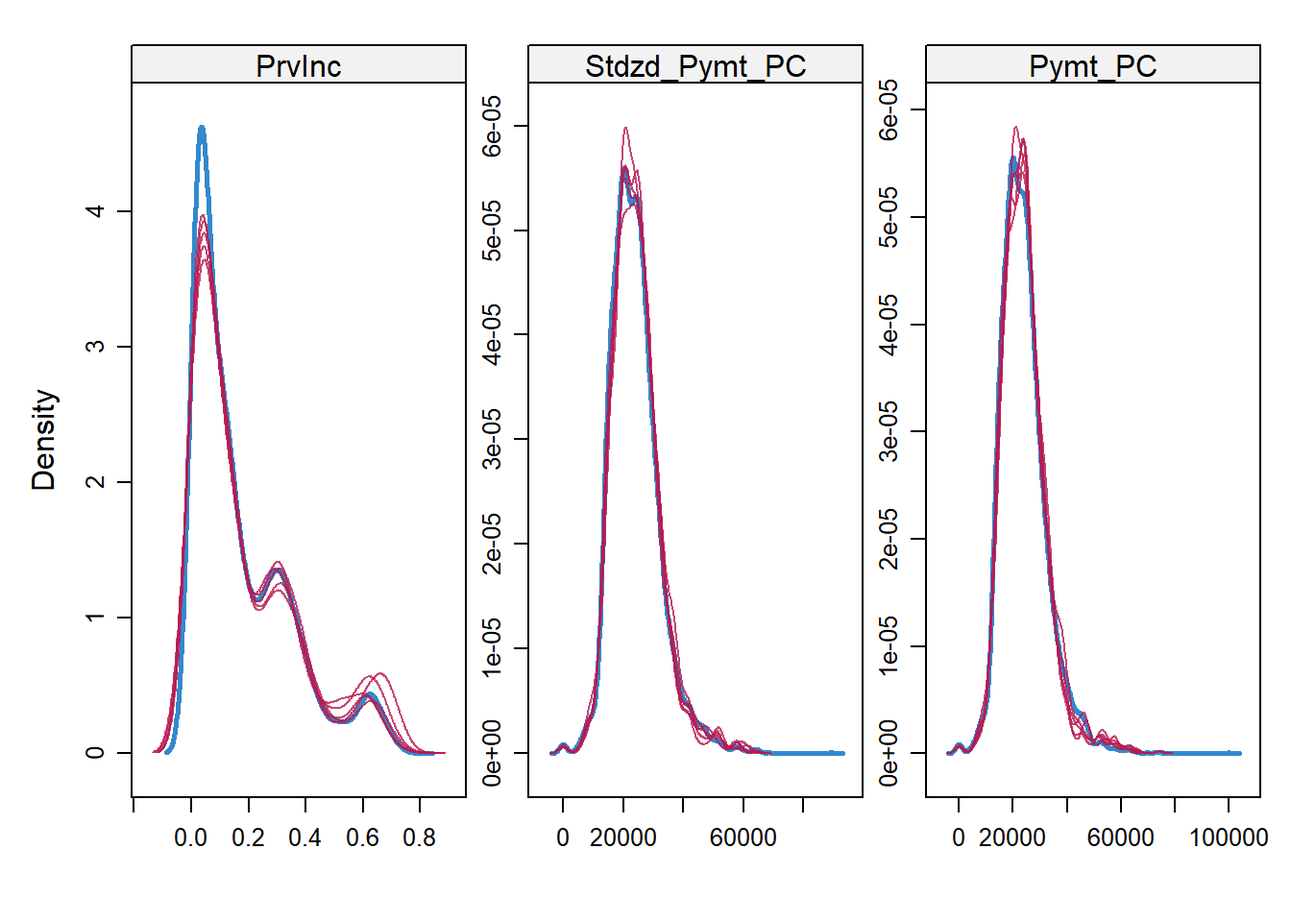
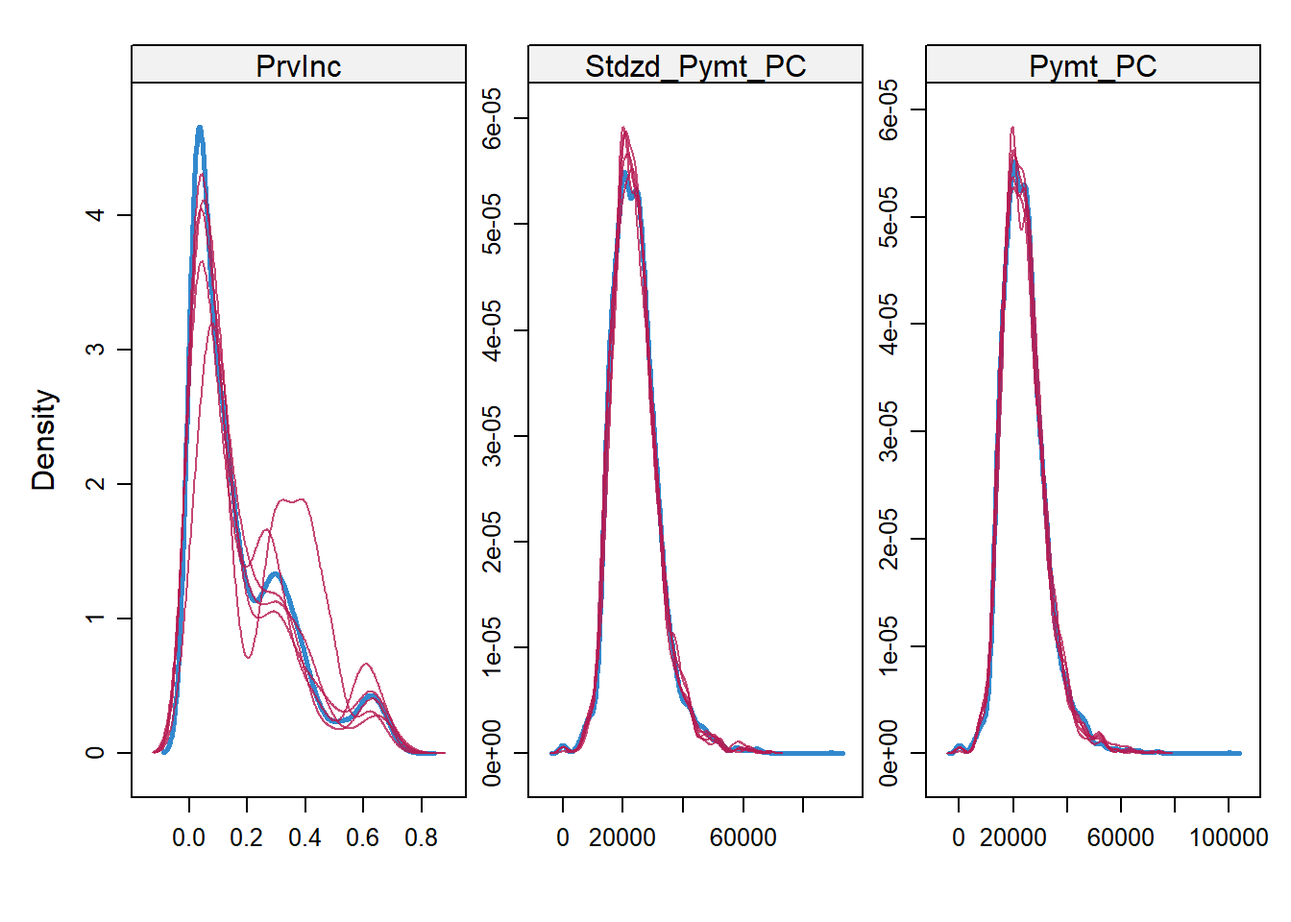
Edits(7/24)

diff --git a/index.html b/index.html
@@ -131,39 +131,40 @@ div.csl-indent {
 
 <section id="introduction" class="level2">
 <h2 class="anchored" data-anchor-id="introduction">Introduction</h2>
-<p>Missing data is ubiquitous in any dataset. Although alone it is not a problem, missing data becomes a problem when its analysis shows bias or lacks power. While the occurrence of missing data is immense, its discussion in many peer-reviewed journal articles is not so. Even more infrequent were the discussions on how best to accurately institute observations in the missing dataset. Some researchers have observed, <span class="citation" data-cites="ljlmw14">(<a href="#ref-ljlmw14" role="doc-biblioref">Little et al. 2014</a>)</span> there are areas of loss when it comes to missing data – bias, power, and recoverability.</p>
-<p>Missing data in experiments and analyses can lead to inaccurately distributed data and calculations, skewed visuals (such as histograms, line graphs, etc.), and allow for inaccurate conclusions to be rendered. Determining which method is best is another challenge entirely. The problem of missing data in research applications is vast. There is a significant need to best correct the missing data points in order to provide the most accurate and complete dataset from which to analyze the research and draw accurate conclusions. Researchers suggest using the most common form of missing data analysis, Multiple Imputation (MI) in addition to other novel suggested approaches.</p>
+<p>Missing data is ubiquitous in any dataset. Although alone it is not a problem, missing data becomes a problem when its analysis shows bias or lacks power. While the occurrence of missing data is immense, its discussion in many peer-reviewed journal articles is not so. Even more infrequent are the discussions on how best to accurately institute observations in the missing dataset. Some researchers <span class="citation" data-cites="ljlmw14">(<a href="#ref-ljlmw14" role="doc-biblioref">Little et al. 2014</a>)</span> have observed that, there are areas of loss when it comes to missing data – bias, power, and recoverability.</p>
+<p>Missing data in experiments and analyses can lead to inaccurately distributed data and calculations, skewed visuals (such as histograms, line graphs, etc.), and allow for inaccurate conclusions to be rendered. Determining which method is best is another challenge entirely. The problem of missing data in research applications is vast. There is a significant need to best correct the missing data points in order to provide the most accurate and complete dataset from which to analyze the research and draw accurate conclusions. Researchers suggest using the most common form of missing data analysis, Multiple Imputation (MI), in addition to other novel suggested approaches.</p>
 <p>MI resolves the issue of “too small or too big” standard errors gathered from using traditional methods of addressing missing data. A large standard error occurs when statistical results are acquired with a lack of precision, whereas a small standard error occurs when statistical results are acquired with an overestimation of precision.</p>
-<p>As others<span class="citation" data-cites="mhth19">(<a href="#ref-mhth19" role="doc-biblioref">Madley-Dowd et al. 2019</a>)</span> have noted, providing sufficient auxiliary variables can alleviate power degradation from missing data. They determined that standard error increased when the fraction of missing information (FMI) increased, while FMI decreased when auxiliary variables increased.</p>
-<p>There has also been discussion of the concept of using machine learning to address missing data <span class="citation" data-cites="emmsmt21">(<a href="#ref-emmsmt21" role="doc-biblioref">Emmanuel et al. 2021</a>)</span>. Using machine learning, additional imputation methods to alleviate missing data include K Nearest Neighbor (KNN) and Support Vector Machine(SVM). KNN measures distances for each missing value and pulls the replacement value from the smallest distances. KNN still performs well even with large amounts of missing data, and in iterative versions, it has been shown to converge faster than many other methods, yet with a high computation time. SVM is similar, but rather than weighting each distance as with KMM, it aims to create a hyperplane that has the largest distance to data points <span class="citation" data-cites="emmsmt21">(<a href="#ref-emmsmt21" role="doc-biblioref">2021</a>)</span>. It should be noted that the KNN method outperformed the experiment’s implementation of a random forest decision tree for small missingness ratios.</p>
+<p>As Madley-Dowd et al.<span class="citation" data-cites="mhth19">(<a href="#ref-mhth19" role="doc-biblioref">2019</a>)</span> have noted, providing sufficient auxiliary variables can alleviate power degradation from missing data. They determined that standard error increased when the fraction of missing information (FMI) increased, while FMI decreased when auxiliary variables increased.</p>
+<p>There has also been discussion of using machine learning to address missing data <span class="citation" data-cites="emmsmt21">(<a href="#ref-emmsmt21" role="doc-biblioref">Emmanuel et al. 2021</a>)</span>. Using machine learning, additional imputation methods to alleviate missing data include K Nearest Neighbor (KNN) and Support Vector Machine(SVM). KNN measures distances for each missing value and pulls the replacement value from the smallest distances. KNN still performs well even with large amounts of missing data, and in iterative versions, it has been shown to converge faster than many other methods, yet with a high computation time. SVM is similar, but rather than weighting each distance as with KMM, it aims to create a hyperplane that has the largest distance to data points. It should be noted that the KNN method outperformed the experiment’s implementation of a random forest decision tree for small missingness ratios.</p>
 <p>Many researchers argue that single imputation methods should be used only in randomized trials <span class="citation" data-cites="awlb21">(<a href="#ref-awlb21" role="doc-biblioref">Austin et al. 2021</a>)</span>.</p>
 <section id="types-of-missing-data" class="level4">
 <h4 class="anchored" data-anchor-id="types-of-missing-data">Types of Missing Data</h4>
-<p>Throughout the topic research, a common theme has immerged. Missing data is categorized into either one of three types: missing completely at random, missing at random, and missing not at random.</p>
-<p>Kang <span class="citation" data-cites="k13">(<a href="#ref-k13" role="doc-biblioref">2013</a>)</span> introduces us to the three types of missing data as initially proposed by Rubin <span class="citation" data-cites="r76">(<a href="#ref-r76" role="doc-biblioref">Rubin 1976</a>)</span>. This was expanded upon <span class="citation" data-cites="pmckppp17">(<a href="#ref-pmckppp17" role="doc-biblioref">Pedersen et al. 2017</a>)</span> to discuss the thorough estimation value of using MI in data analysis along with providing the three-step method. They <span class="citation" data-cites="pmckppp17">(<a href="#ref-pmckppp17" role="doc-biblioref">Pedersen et al. 2017</a>)</span> conclude the results of using MI are similar to using complete datasets thereby enhancing the credibility of the method’s robustness.</p>
-<p>Missing completely at random (MCAR) refers to the probability that missing data is either not related to a specific value that is supposed to be obtained or the set of obtained values. The data can also be missing due to equipment failure, samples lost in transit, or unsatisfactory samples <span class="citation" data-cites="k13">(<a href="#ref-k13" role="doc-biblioref">Kang 2013</a>)</span>. MCAR data are unbiased and therefore an advantage due to its estimated parameters being objective and undeterred due to missing data. As a result, MCAR is the best-case option for missing data in an experiment. When Missing not at random (MCAR) occurs, no bias is observed, only power is affected resulting in standard error (SE) around the estimates being larger due to reduced sample size. Missing at random (MAR) refers to the probability that missing responses are dependent upon the set of observed responses, but not related to the specific values expected to be obtained given the history of the obtained variable prior to the experiment. This is the most realistic option for missing data. When Missing at random (MAR) occurs, the missing data is knowable and missingness is predictable, therefore, estimates can be determined; bias can be “recovered” <span class="citation" data-cites="k13">(<a href="#ref-k13" role="doc-biblioref">Kang 2013</a>)</span>.</p>
-<p>Missing not at random (MNAR) refers to any case of missing data that cannot be classified as either missing completely at random or missing at random. MNAR is the least desirable scenario of missing data. The only way to accurately obtain an unbiased observation of the data is to model the data and use the model to incorporate it into a more complex model to estimate the values <span class="citation" data-cites="k13">(<a href="#ref-k13" role="doc-biblioref">Kang 2013</a>)</span>. When Missing not at random (MNAR) occurs, the subjects affect the variables. Subjects do not want to disclose accurate information for fear or shame, and therefore forego providing a data point altogether <span class="citation" data-cites="ljlmw14">(<a href="#ref-ljlmw14" role="doc-biblioref">Little et al. 2014</a>)</span>.</p>
+<p>Throughout the topic research, a common theme has emerged. Missing data is categorized into either one of three types: Missing Completely at Random, Missing at Random, and or Missing Not at Random.</p>
+<p>Kang <span class="citation" data-cites="k13">(<a href="#ref-k13" role="doc-biblioref">2013</a>)</span> introduces us to the three types of missing data as initially proposed by Rubin <span class="citation" data-cites="r76">(<a href="#ref-r76" role="doc-biblioref">Rubin 1976</a>)</span>. This research was expanded upon <span class="citation" data-cites="pmckppp17">(<a href="#ref-pmckppp17" role="doc-biblioref">Pedersen et al. 2017</a>)</span> to discuss the thorough estimation value of using MI in data analysis along with providing the three-step method. Pedersen et al. <span class="citation" data-cites="pmckppp17">(<a href="#ref-pmckppp17" role="doc-biblioref">2017</a>)</span> conclude the results of using MI are similar to using complete datasets thereby enhancing the credibility of the method’s robustness.</p>
+<p>Missing Completely at Random (MCAR) refers to the probability that missing data is either not related to a specific value that is supposed to be obtained or to the set of obtained values. The data can also be missing due to equipment failure, samples lost in transit, or unsatisfactory samples <span class="citation" data-cites="k13">(<a href="#ref-k13" role="doc-biblioref">Kang 2013</a>)</span>. MCAR data are unbiased and therefore an advantage due to its estimated parameters being objective and undeterred because of missing data. As a result, MCAR is the best-case option for missing data in an experiment.</p>
+<p>Missing at Random (MAR) refers to the probability that missing responses are dependent upon the set of observed responses, but not related to the specific values expected to be obtained given the history of the obtained variable prior to the experiment. This is the most realistic option for missing data. When Missing at Random (MAR) occurs, the missing data is knowable and missingness is predictable, therefore, estimates can be determined; bias can be “recovered” <span class="citation" data-cites="k13">(<a href="#ref-k13" role="doc-biblioref">Kang 2013</a>)</span>.</p>
+<p>Missing Not at Random (MNAR) refers to any case of missing data that cannot be classified as either Missing Completely at Random or Missing at Random. When Missing Not at Random (MNAR) occurs, no bias is observed, only power is affected resulting in standard error (SE) around the estimates being larger due to reduced sample size. MNAR is the least desirable scenario of missing data. The only way to accurately obtain an unbiased observation of the data is to model the data and use the model to incorporate it into a more complex model to estimate the values <span class="citation" data-cites="k13">(<a href="#ref-k13" role="doc-biblioref">Kang 2013</a>)</span>. When Missing Not at Random (MNAR) occurs, the subjects affect the variables. Subjects do not want to disclose accurate information for fear or shame, and therefore forego providing a data point altogether <span class="citation" data-cites="ljlmw14">(<a href="#ref-ljlmw14" role="doc-biblioref">Little et al. 2014</a>)</span>.</p>
 </section>
 <section id="types-of-missing-data-solutions" class="level4">
 <h4 class="anchored" data-anchor-id="types-of-missing-data-solutions">Types of Missing Data Solutions</h4>
 <p>Kang attempts to provide solutions to fill in the missing data points<span class="citation" data-cites="k13">(<a href="#ref-k13" role="doc-biblioref">Kang 2013</a>)</span> . His research suggests the best solution to missing data is to be proactive to prevent it. When prevention fails to eliminate missing data, Kang offers several data analysis solutions to make the data more robust. The most common solution is complete case analysis, also stated as listwise analysis, with the aim to eliminate the missing data records altogether and analyze only the remaining whole data records.</p>
-<p>Meanwhile, <span class="citation" data-cites="ltclbghc21">(<a href="#ref-ltclbghc21" role="doc-biblioref">Lee et al. 2021</a>)</span> deem the method beneficial for some use cases, but not sufficient for most analyses. They introduce Treatment and Reporting of Missing data in Observational Studies (TARMOS), a novel framework alternative to MI, whose aim is to provide transparency and limit redundancies in substituted data. The framework notes the importance of using auxiliary variables to gather information from incomplete observations.</p>
+<p>Meanwhile, Lee et al.<span class="citation" data-cites="ltclbghc21">(<a href="#ref-ltclbghc21" role="doc-biblioref">2021</a>)</span> deem the method beneficial for some use cases, but not sufficient for most analyses. They introduce Treatment and Reporting of Missing data in Observational Studies (TARMOS), a novel framework alternative to MI. TARMOS’s aim is to provide transparency and limit redundancies in substituted data. The framework notes the importance of using auxiliary variables to gather information from incomplete observations.</p>
 <p>In addition to using MI, Little, et al.&nbsp;recommended using full-information maximum likelihood to mitigate the issues of missing data <span class="citation" data-cites="ljlmw14">(<a href="#ref-ljlmw14" role="doc-biblioref">Little et al. 2014</a>)</span>. Using the three discussed planned missing data designs - multiform questionnaire protocol, two-method planned missing design, and wave-missing longitudinal design – the user is able to better understand how to overcome missing data issues.</p>
-<p>It is essential to have quality datasets to avoid corrupted machine learning models. A derivative of MI is the Multivariate Imputation by Chained Equation (MICE) algorithm which assumes data is missing at random (MAR). The process uses multiple imputation methods to provide better results by considering the uncertainty of missing data.</p>
+<p>It is essential to have quality datasets to avoid corrupted machine learning models. A derivative of MI is the Multivariate Imputation by Chained Equation (MICE) algorithm which assumes data is Missing at Random (MAR). The process uses multiple imputation methods to provide better results by considering the uncertainty of missing data.</p>
 <div class="quarto-figure quarto-figure-center">
 <figure class="figure">
 <p><img src="MultiImputation.gif" class="img-fluid figure-img"></p>
 <figcaption class="figure-caption">Figure 1: Multiple Imputation Process using 5 sets</figcaption>
 </figure>
 </div>
-<p>Others<span class="citation" data-cites="kh20">(<a href="#ref-kh20" role="doc-biblioref">Khan and Hoque 2020</a>)</span> provide an alternative to MICE. Known as SICE, the new method improves upon the already existing Multivariate Imputation by Chained Equation (MICE) algorithm (found as a package in R), split into two variations to impute both categorical and numerical data. The method improves missing data by creating a hybrid of single and multiple imputation techniques. Using the respective variant, SICE-Categorical and SICE-Numeric, of the Single Center Imputation from Multiple Chained Equation (SICE) algorithm, the missing data values are corrected using a thorough approach to closely find a more accurate value to use instead, using predicted values imputed using the MI approach, by computing for the imputed values a mean or mode, depending on the data type, and replacing the original imputed value with the respective central measure. An added feature of using SICE in R is that it often had the lowest computation time for its data sets.</p>
+<p>Khan and Hoque <span class="citation" data-cites="kh20">(<a href="#ref-kh20" role="doc-biblioref">2020</a>)</span> provide an alternative to MICE. Known as SICE, the new method improves upon the already existing Multivariate Imputation by Chained Equation (MICE) algorithm (found as a package in R), split into two variations to impute both categorical and numerical data. The method improves missing data by creating a hybrid of single and multiple imputation techniques. Using the respective variant, SICE-Categorical and SICE-Numeric, of the Single Center Imputation from Multiple Chained Equation (SICE) algorithm, the missing data values are corrected using a thorough approach to closely find a more accurate value to use instead. The approach uses predicted values imputed by using the MI approach to compute a mean or mode for the imputed values(depending on the data type), and replacing the original imputed value with the respective central measure. An added feature of using SICE in R is that it often had the lowest computation time for its data sets.</p>
 <p>Two main techniques of imputation exist – traditional and modern <span class="citation" data-cites="oap18">(<a href="#ref-oap18" role="doc-biblioref">Osman, Abu-Mahfouz, and Page 2018</a>)</span>. The traditional technique - single imputation, deletion, and mean imputation may be obsolete. However, Hot or Cold deck imputation (replacing missing data using similar data sets), and Regression imputation (replacing missing data with points along a regression) - may prove useful with many datasets. Furthermore, single imputation may lead to biased results and underestimation of error or variability.</p>
 </section>
 </section>
 <section id="methods" class="level2">
 <h2 class="anchored" data-anchor-id="methods">Methods</h2>
 <p>The dataset used to conduct the below Missing Imputation methods was adapted from the most recent study conducted by the U.S. Department of Health &amp; Human Services which examined 21 specific chronic illnesses of Medicare beneficiaries <span class="citation" data-cites="CMMS">(<a href="#ref-CMMS" role="doc-biblioref">Medicare &amp; Medicaid Services 2018</a>)</span>.</p>
-<p>The Multiple Imputation (MI) approach is used to correct the issue of imputing multiple times the missing values from the predictive distribution of the missing given observed data. “Next, the analysis model is fitted to each ‘complete’ data set and results combined using Rubin’s rules” <span class="citation" data-cites="k13">(<a href="#ref-k13" role="doc-biblioref">Kang 2013</a>)</span>. Bias can be reduced and efficiency increased by using in the imputation step the auxiliary variables (predictive of missing values but not in the substantive model). The MI method is good but is not appropriate for handling all missing data records.</p>
+<p>The Multiple Imputation (MI) approach is used to correct the issue of imputing multiple times the missing values from the predictive distribution of the missing values given observed data. “Next, the analysis model is fitted to each ‘complete’ data set and results combined using Rubin’s rules” <span class="citation" data-cites="k13">(<a href="#ref-k13" role="doc-biblioref">Kang 2013</a>)</span>. Bias can be reduced and efficiency increased by using in the imputation step the auxiliary variables (predictive of missing values but not in the substantive model). The MI method is good but is not appropriate for handling all missing data records.</p>
 <p>There is a three-step process for conducting a statistical analysis of MI. The stages are 1) Selecting independent variables that may help impute variables with missing data, 2) Noting the chosen statistical method, estimating in each of the imputed datasets the association of interest, and 3) Combining using Rubin’s rules the association measures from each imputed dataset <span class="citation" data-cites="r76">(<a href="#ref-r76" role="doc-biblioref">Rubin 1976</a>)</span>. To combine, we use the following equations for Standard Error(SE), Arithmetic Average(W) and the Variability of the estimates(B), where t is a particular dataset, m is the total amount of imputed datasets, <span class="math inline">\(\bar{\theta}\)</span> and <span class="math inline">\(\hat{\theta_t}\)</span> are the average parameter estimate and the parameter estimate for a particular dataset, respectively. <span class="citation" data-cites="oap18">(<a href="#ref-oap18" role="doc-biblioref">Osman, Abu-Mahfouz, and Page 2018</a>)</span></p>
 <p><span class="math display">\[
 W=\frac{\sum({SE_t}^2)}{m} \tag{1}
@@ -173,10 +174,9 @@ B=\frac{\sum(\hat{\theta_t}-\bar{\theta})^2}{m-1} \tag{2}
 <p><span class="math display">\[
 SE=\sqrt{W+B+\frac{B}{m}}
 \]</span></p>
-<p><span class="citation" data-cites="ljlmw14">(<a href="#ref-ljlmw14" role="doc-biblioref">Little et al. 2014</a> )</span> provide exceptional detail on how to alleviate missing data using full-information maximum likelihood and multiple imputations followed by a presentation of 3-form planned missing design to include multiform questionnaire protocols, 2-method measurement models, and wave-missing longitudinal designs.</p>
-<p>TARMOS consists of three main steps with a series of subsets within each step. The steps are as follows. Step 1: Plan the analysis, step 2: Conduct the preplanned analysis, step 3: Report the analysis <span class="citation" data-cites="ltclbghc21">(<a href="#ref-ltclbghc21" role="doc-biblioref">Lee et al. 2021</a>)</span>. The framework’s emphasis is on transparency. All expectations of the analysis and the research interests should be disclosed.</p>
-<p>One proposed method which we deem computationally feasible for this project is multiple imputation <span class="citation" data-cites="ljlmw14">(<a href="#ref-ljlmw14" role="doc-biblioref">Little et al. 2014</a> )</span>. The methodology includes performing single imputation with multiple data sets, analyzing and computing the error of each set, and combining the data into a single, final data set.</p>
-<p>Researchers tested their proposed SICE method using four datasets, a sample of 65,000 real health records from hospitals and diagnostic clinics in Bangladesh, and a public dataset each from UCI Machine Learning Repository, Department of Mathematics of ETH Zurich, and Kaggle. The data types assessed were binary, categorical, and numeric. Researchers tested SICE performance against that of 12 existing imputation methods. Binary and numeric data responded better to SICE than the opposing methods. When using SICE, F-measurement resulted in a 20% increase while error reduction resulted in an 11% increase; both factors showed improvement using SICE compared to the existing imputation methods. There was no significant time difference when running SICE compared to MICE <span class="citation" data-cites="pmckppp17">(<a href="#ref-pmckppp17" role="doc-biblioref">Pedersen et al. 2017</a>)</span>.</p>
+<p>TARMOS consists of three main steps with a series of subsets within each step. The steps are as follows. Step 1) Plan the analysis, step 2) Conduct the preplanned analysis, and step 3) Report the analysis <span class="citation" data-cites="ltclbghc21">(<a href="#ref-ltclbghc21" role="doc-biblioref">Lee et al. 2021</a>)</span>. The framework’s emphasis is on transparency. All expectations of the analysis and the research interests should be disclosed.</p>
+<p>One proposed method which we deem computationally feasible for this project is multiple imputation. The methodology includes performing single imputation with multiple data sets, analyzing and computing the error of each set, and combining the data into a single, final data set <span class="citation" data-cites="ljlmw14">(<a href="#ref-ljlmw14" role="doc-biblioref">Little et al. 2014</a> )</span>.</p>
+<p>Researchers tested their proposed SICE method using four datasets, a sample of 65,000 real health records from hospitals and diagnostic clinics in Bangladesh, and one public dataset each from UCI Machine Learning Repository, Department of Mathematics of ETH Zurich, and Kaggle. The data types assessed were binary, categorical, and numeric. Researchers tested SICE performance against that of 12 existing imputation methods. Binary and numeric data responded better to SICE than the opposing methods. When using SICE, F-measurement resulted in a 20% increase while error reduction resulted in an 11% increase; Both factors showed improvement using SICE compared to the existing imputation methods. There was no significant time difference when running SICE compared to MICE <span class="citation" data-cites="pmckppp17">(<a href="#ref-pmckppp17" role="doc-biblioref">Pedersen et al. 2017</a>)</span>.</p>
 <p>Using Multiple Imputation by Chained Equations (MICE), the multiple imputation is conducted by manipulating the imputed data and comparing it to the regression, repeating the process multiple times, (usually 5-20), to create a single data set. Most modern imputations will create 20-100 data sets. Then each of these data sets will be analyzed and compared, such that the MI estimate of any statistic is the average of the statistic across each imputed set. The variance of each statistic is based on the within-imputation variation and the between-imputation variation <span class="citation" data-cites="awlb21">(<a href="#ref-awlb21" role="doc-biblioref">Austin et al. 2021</a>)</span>. The variable that is to be analyzed must be included in the imputation model, even if there is no missing data, otherwise, it will often be biased towards null.</p>
 <p>For our analysis, we decided to use the R packages for predictive means matching, classification and regression trees, and lasso linear regression, defined below.</p>
 <section id="equations" class="level3">
@@ -190,7 +190,7 @@ SE=\sqrt{W+B+\frac{B}{m}}
 </section>
 <section id="classification-and-regression-trees" class="level4">
 <h4 class="anchored" data-anchor-id="classification-and-regression-trees">Classification and Regression Trees</h4>
-<p>Classification and regression trees(CART) looks for predictors and cutoff points in the data, and splits data into trees along these points. Classifications trees are used for discrete data, but for continuous, such as ours, regression trees are employed. Missing data is replaced very similarly to the PMM method, but data is chosen according to the tree of splitting points rather than regression <span class="citation" data-cites="RJG21">(<a href="#ref-RJG21" role="doc-biblioref">Rodgers, Jacobucci, and Grimm 2021</a>)</span>.</p>
+<p>Classification and regression trees(CART) look for predictors and cutoff points in the data, and split data into trees along these points. Classifications trees are used for discrete data, but for continuous, such as ours, regression trees are employed. Missing data is replaced very similarly to the PMM method, but data is chosen according to the tree of splitting points rather than regression <span class="citation" data-cites="RJG21">(<a href="#ref-RJG21" role="doc-biblioref">Rodgers, Jacobucci, and Grimm 2021</a>)</span>.</p>
 <div class="quarto-figure quarto-figure-center">
 <figure class="figure">
 <p><img src="CART.png" class="img-fluid figure-img"></p>
@@ -207,7 +207,7 @@ SE=\sqrt{W+B+\frac{B}{m}}
 </section>
 <section id="analysis-and-results" class="level2">
 <h2 class="anchored" data-anchor-id="analysis-and-results">Analysis and Results</h2>
-<p>Prior to implementing the MICE method, we ran a missing map to get a count of which rows and columns contain missing data and how many data points are missing. As the following table and figures will show most of the columns contain their complete data set. We do, however, have three columns – Provisional Income, the Total Medicare Standardized Payment and the Total Medicare Payment. Provisional Income has 408 missing entries, and payments have missing values in 918 rows each. In our data set we have 2244 missing data points total between these columns.</p>
+<p>Prior to implementing the MICE method, we ran a missing map to get a count of which rows and columns contain missing data and how many data points are missing. As the following table and figures will show most of the columns contain their complete data set. We do, however, have three columns – Provisional Income, Total Medicare Standardized Payment, and Total Medicare Payment. Provisional Income has 408 missing entries, and both payment columns have missing values in 918 rows each. In our data set we have 2244 missing data points total between these columns.</p>
 <div class="cell">
 <details>
 <summary>Code</summary>
@@ -255,7 +255,7 @@ SE=\sqrt{W+B+\frac{B}{m}}
 </div>
 </div>
 <p>Figure 4: Histogram</p>
-<p>We can see that over 75% of the data has been recorded but between those columns we are missing roughly 25% of our data which we will utilize the MICE package to impute. Following the Missing map, we ran the MICE package in R.</p>
+<p>We can see that over 75% of the data has been recorded but between those columns we are missing roughly 25% of our data which we will utilize the MICE package to impute. Following the Missing Map, we ran the MICE package in R.</p>
 <p>Results:</p>
 <div class="cell">
 <details>
@@ -644,18 +644,18 @@ SE=\sqrt{W+B+\frac{B}{m}}
 </div>
 <div class="cell-output cell-output-stdout">
 <pre><code>     PrvInc Stdzd_Pymt_PC Pymt_PC     
-2687      1             1       1    0
-304       1             1       0    1
-301       1             0       1    1
-760       1             0       0    2
-535       0             1       1    1
-67        0             1       0    2
-60        0             0       1    2
-200       0             0       0    3
-        862          1321    1331 3514</code></pre>
+2706      1             1       1    0
+330       1             1       0    1
+291       1             0       1    1
+757       1             0       0    2
+506       0             1       1    1
+61        0             1       0    2
+55        0             0       1    2
+208       0             0       0    3
+        830          1311    1356 3497</code></pre>
 </div>
 </div>
-<p>Additionally, we ran the miss Forest package in R. We ran the package followed by a summary to gain a better quantitative view. Below are the code, results, and figure.</p>
+<p>Additionally, we ran the miss Forest package followed by a summary to gain a better quantitative view. Below are the code, results, and figure.</p>
 <div class="cell">
 <details>
 <summary>Code</summary>
@@ -676,12 +676,12 @@ SE=\sqrt{W+B+\frac{B}{m}}
 <div class="cell-output cell-output-stdout">
 <pre><code>     PrvInc       Stdzd_Pymt_PC      Pymt_PC      
  Min.   :0.0000   Min.   :    0   Min.   :     0  
- 1st Qu.:0.0391   1st Qu.:18587   1st Qu.: 18398  
- Median :0.1122   Median :23165   Median : 22903  
- Mean   :0.1728   Mean   :24022   Mean   : 23997  
- 3rd Qu.:0.2772   3rd Qu.:28143   3rd Qu.: 28229  
- Max.   :0.7566   Max.   :89235   Max.   :100028  
- NA's   :862      NA's   :1321    NA's   :1331    </code></pre>
+ 1st Qu.:0.0383   1st Qu.:18617   1st Qu.: 18493  
+ Median :0.1108   Median :23276   Median : 23005  
+ Mean   :0.1732   Mean   :24071   Mean   : 24075  
+ 3rd Qu.:0.2768   3rd Qu.:28214   3rd Qu.: 28255  
+ Max.   :0.7588   Max.   :89235   Max.   :100028  
+ NA's   :830      NA's   :1311    NA's   :1356    </code></pre>
 </div>
 </div>
 <div class="cell">
@@ -698,7 +698,8 @@ SE=\sqrt{W+B+\frac{B}{m}}
 </section>
 <section id="conclusion" class="level2">
 <h2 class="anchored" data-anchor-id="conclusion">Conclusion</h2>
-<p>Multiple imputation is the act of completing data sets where there are missing data points. The purpose of multiple imputation is to utilize multiple analyses for what the missing data value could be and combining them in order to have a less biased and more accurate result. Multivariate Imputation by Chained Equations, or MICE, in R is a highly effective way to impute missing data into data sets. The benefit of using multiple imputation, specifically MICE, is that we are using multiple possible outcomes for each data point which accounts for a certain amount of uncertainty. Within the MICE package we utilized PMM, Lasso and Cart methods if imputation – each will produce results based off of a different type of analysis with the results being not only a combination of them but also a combination of each imputation(there are normally 5-20 each time before final results are pooled). Multiple imputation allows for, under certain conditions, unbiased results which is the hoped for outcome when imputing data. In other methods, you create a biased result by removing data or utilizing an average, etc. With multiple imputation the final results tend to be more accurate and more on trend with the original data set due to the use of multiple results before the final result is determined. From our data set we can see with our final Density Plot that not only does one or some of the imputed data results follow the trendline closely, but all do. We can determine that the imputed data, when this close to the trendline, will be fairly accurate. We can also assume a non-biased result as no data was removed prior to utilizing our MICE package simply because we of missing data.</p>
+<p>Missing data is a common finding when analyzing datasets, yet can be easily addressed. Unlike other data analysis cleaning methods which create biased results by removing data or imputing an average, Multiple imputation is the act of completing data sets where there are missing data points. MI’s purpose is to utilize multiple analyses for what the missing data value could be, then combine analyses results in order to have a less biased and more accurate outcome. Multivariate Imputation by Chained Equations, or MICE, in R is a highly effective way to impute missing data into data sets. One key benefit of using MI, or more specifically MICE, is to reduce uncertainty by using multiple possible outcomes for each data point. Within the MICE package are PMM, Lasso and Cart methods if imputation. Each method will produce results based off of a different type of analysis which will include both a combination of the different analysis types and a combination of each imputation.</p>
+<p>From our data set we can see with our final Density Plot that not only does one or some of the imputed data results follow the trendline closely, but all do. We can determine that the imputed data, when this close to the trendline, will be fairly accurate.</p>
 <section id="references" class="level3 unnumbered">
 
 
